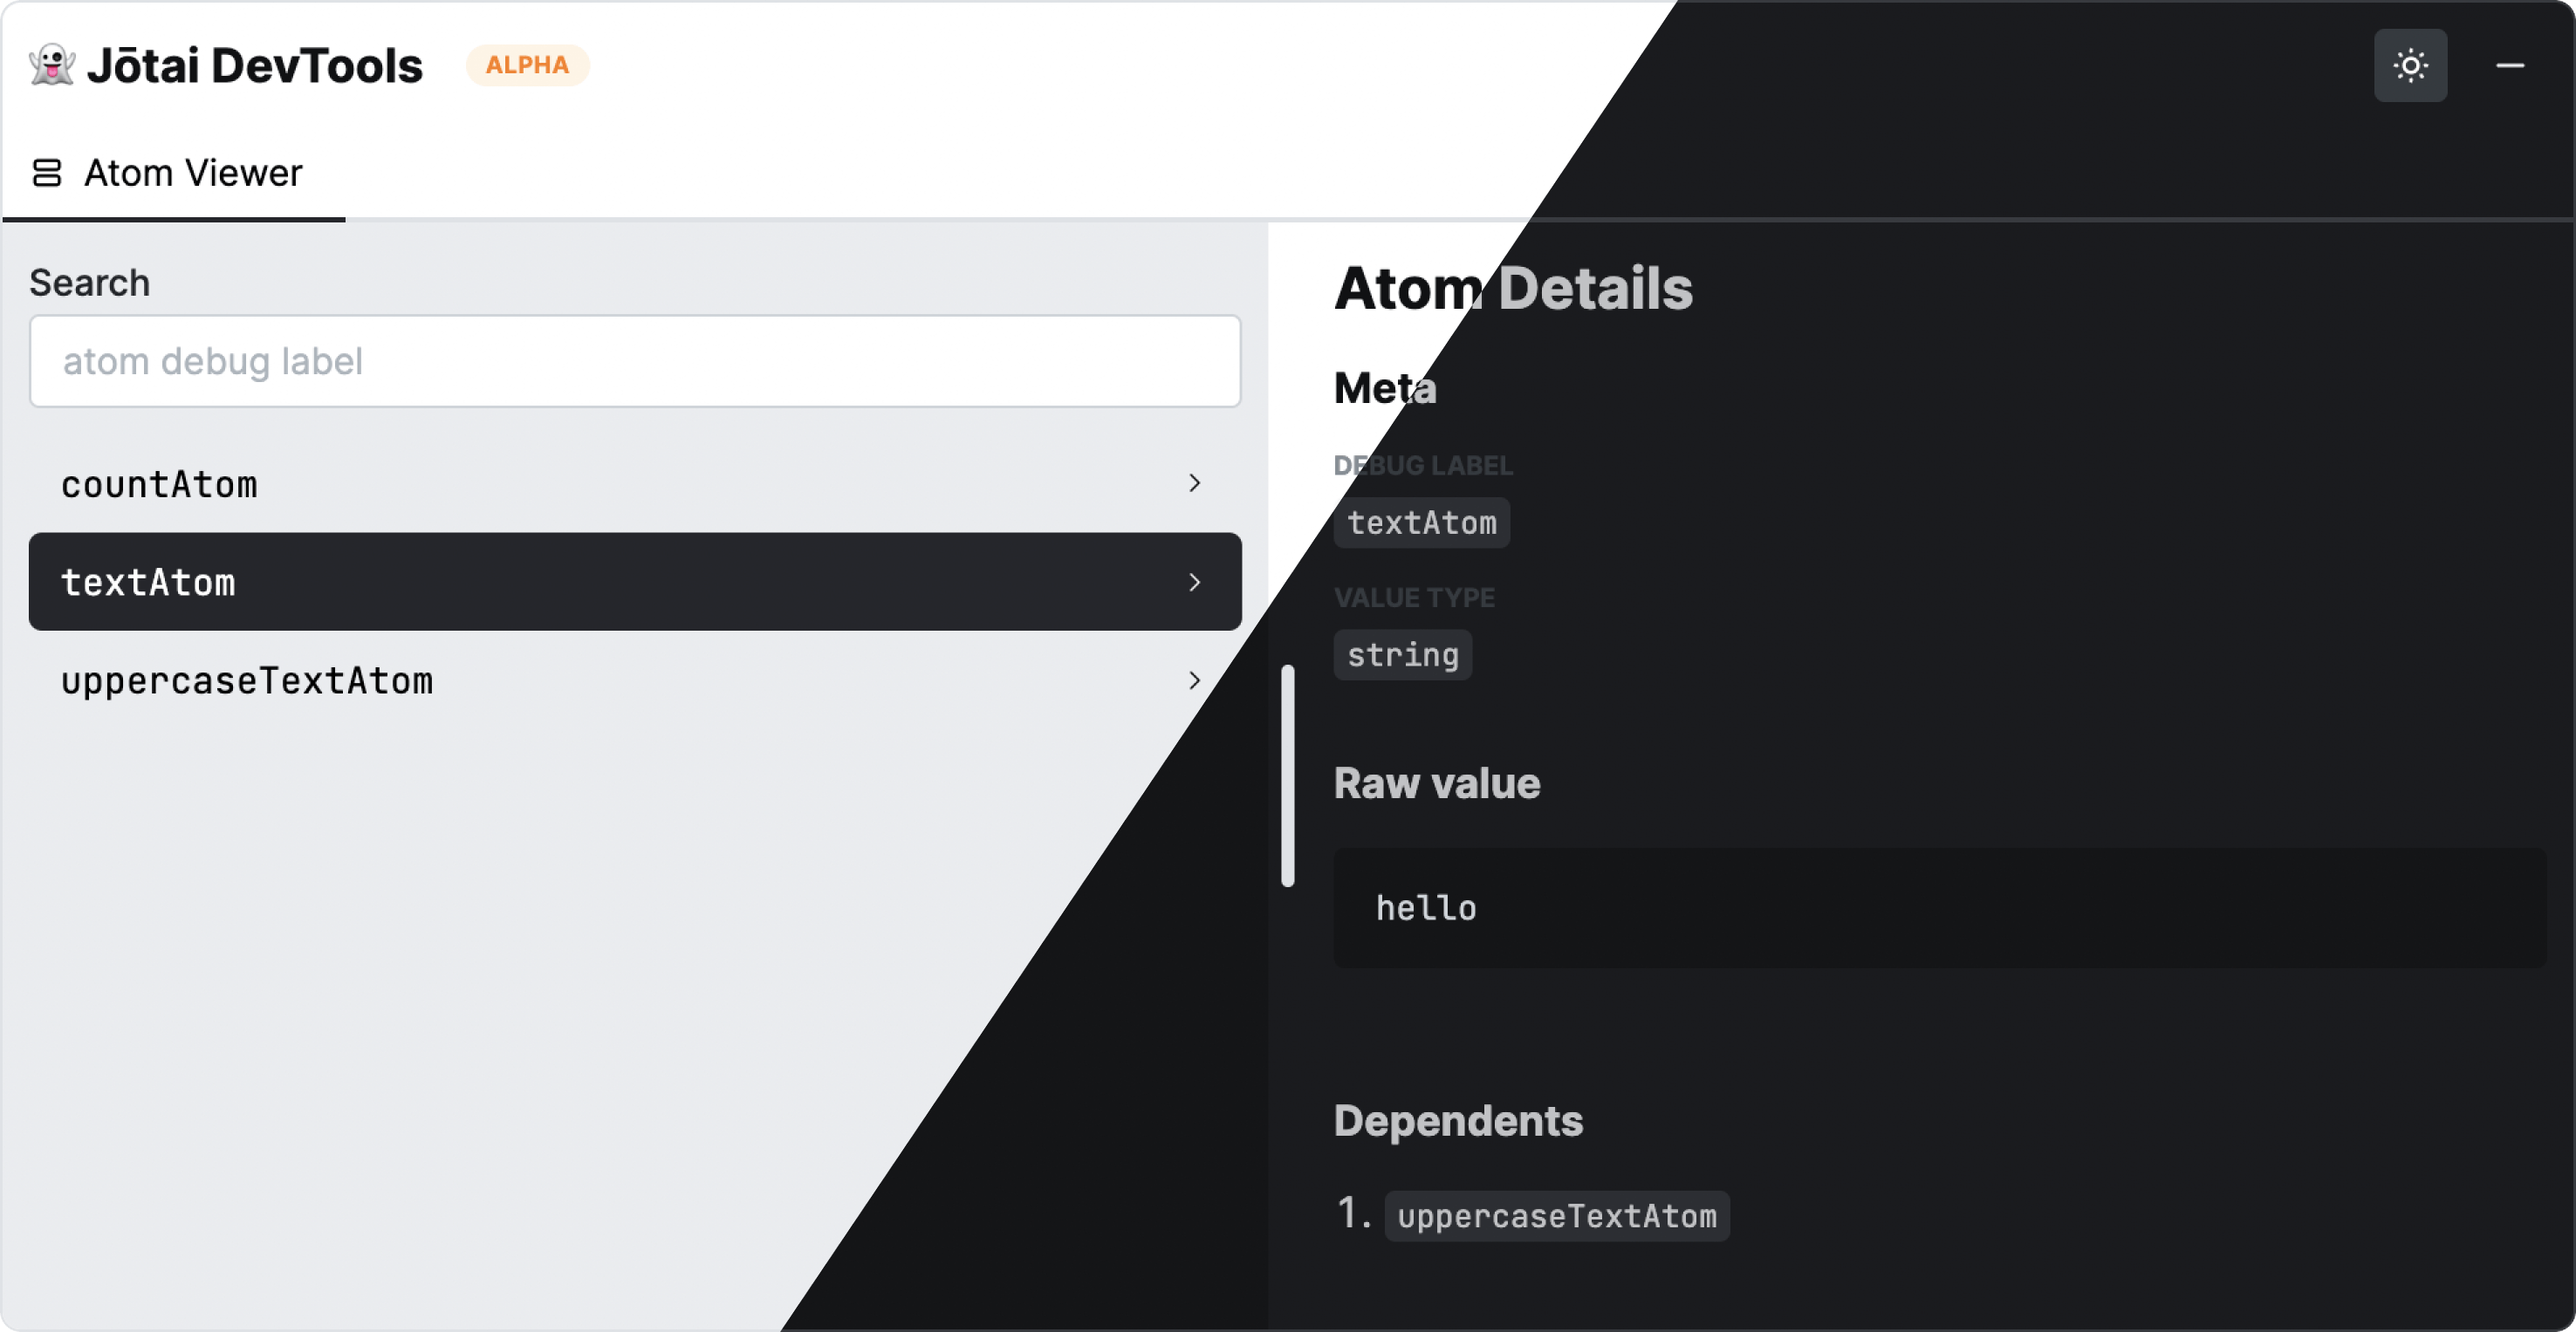
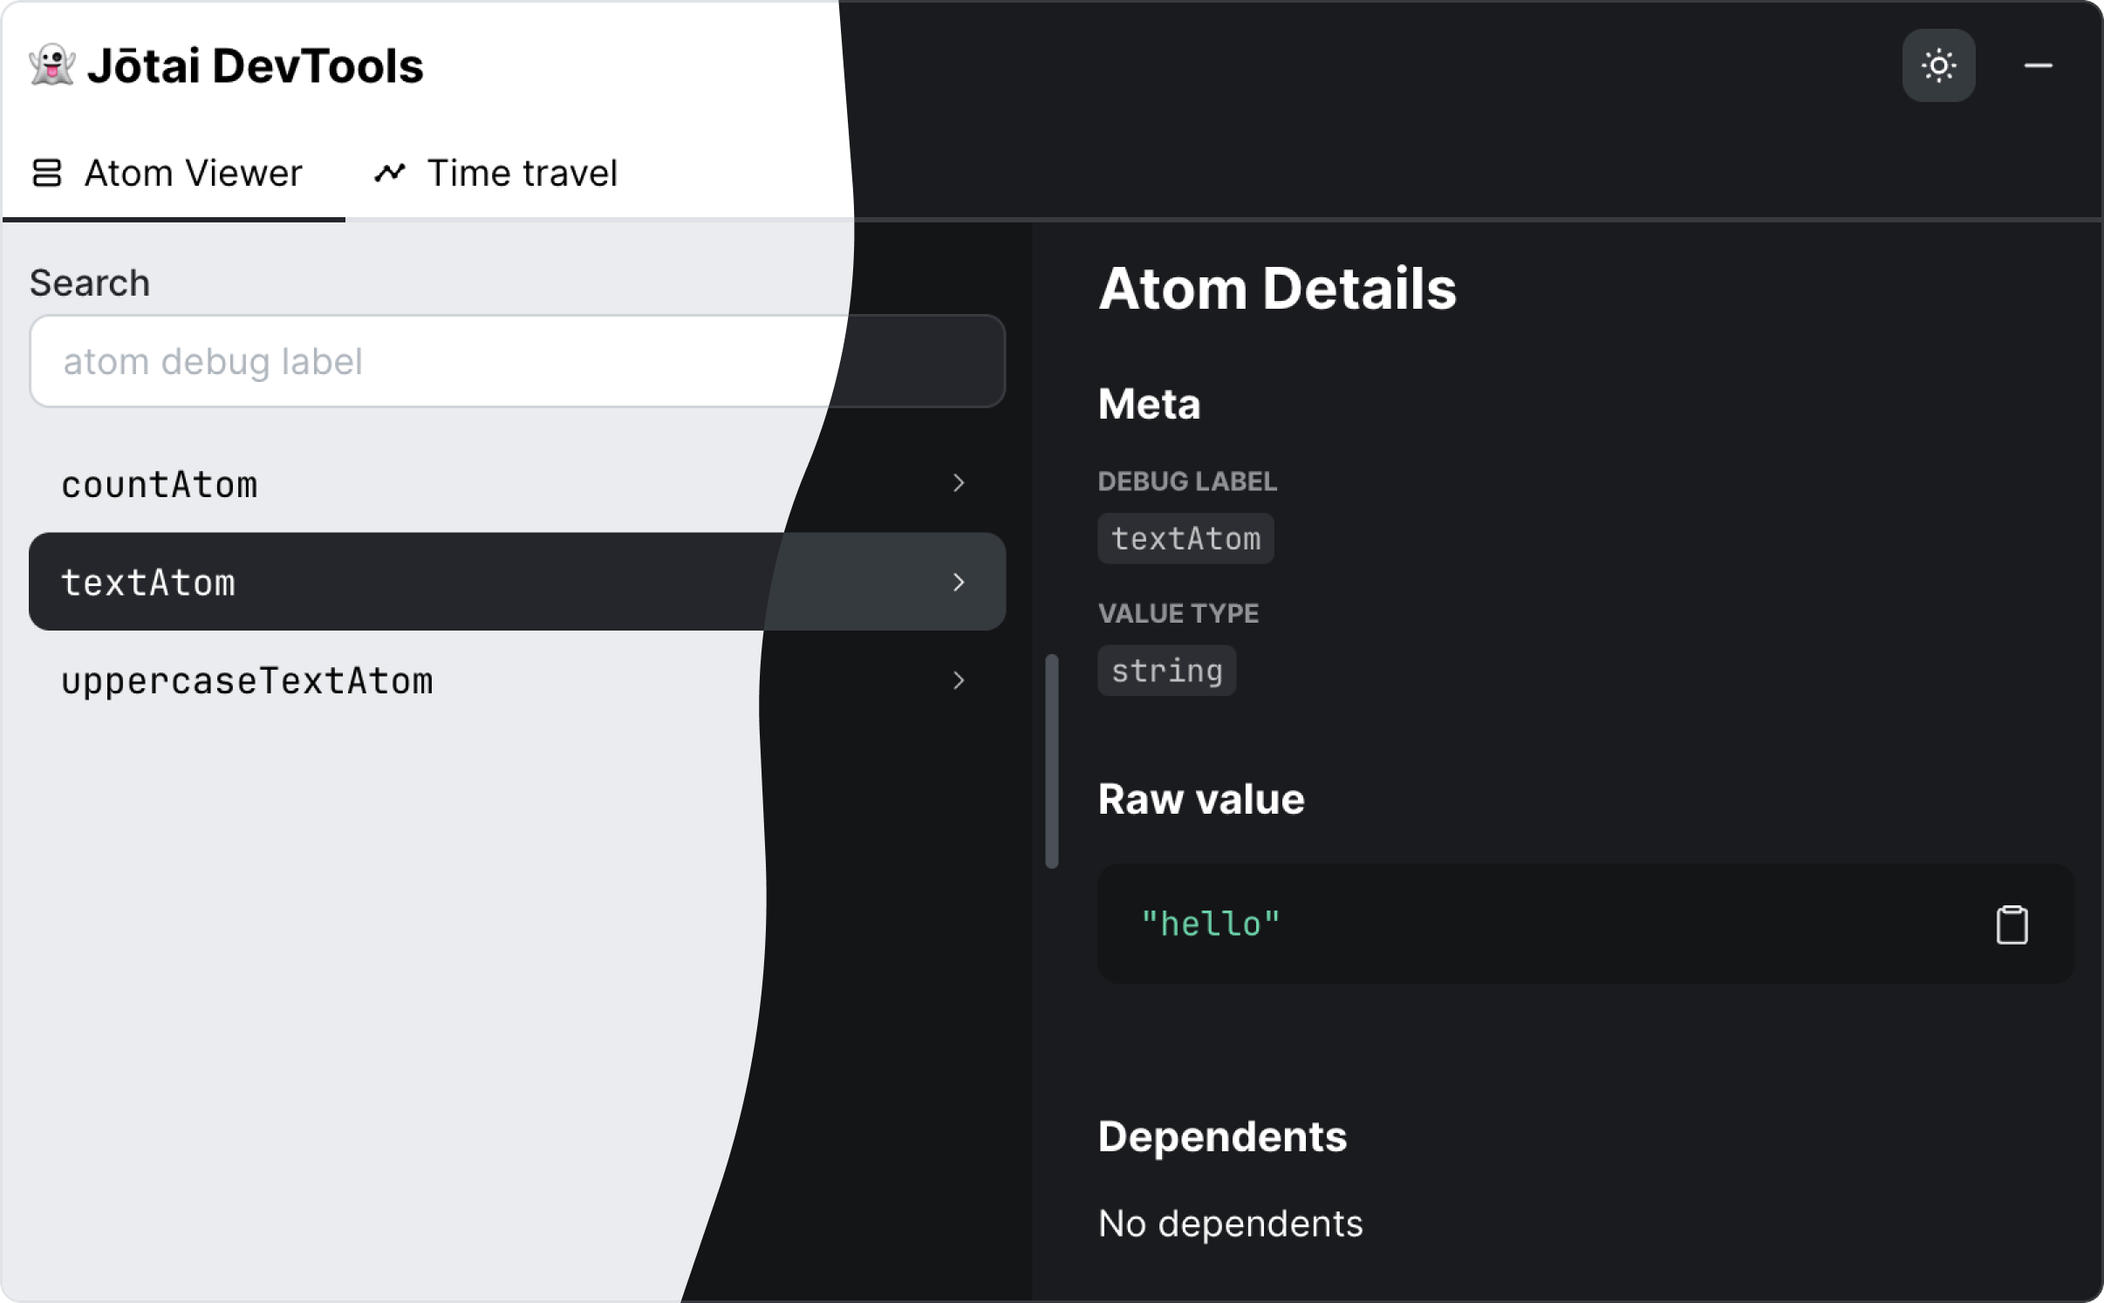
docs: update docs

diff --git a/src/DevTools/atoms/devtools-options.ts b/src/DevTools/atoms/devtools-options.ts
@@ -19,8 +19,7 @@ export type DevToolsOptions = {
   /**
    * Defaults to 750ms
    *
-   * Disables the snapshot recording on mount.
-   * This is useful when you want to record snapshots manually.
+   * The interval (in milliseconds) between each step of the time travel playback.
    */
   timeTravelPlaybackInterval?: number;
   /**

diff --git a/README.md b/README.md
@@ -2,10 +2,13 @@
 
 [![Build Status](https://img.shields.io/github/actions/workflow/status/jotaijs/jotai-devtools/ci.yml?style=flat&colorA=000000&colorB=259e02)](https://github.com/jotaijs/jotai-devtools/actions/workflows/ci.yml)
 [![Version](https://img.shields.io/npm/v/jotai-devtools?style=flat&colorA=000000&colorB=259e02)](https://www.npmjs.com/package/jotai-devtools)
+[![Version](https://img.shields.io/npm/dw/jotai-devtools?style=flat&colorA=000000&colorB=259e02)](https://www.npmjs.com/package/jotai-devtools)
 
 ## 🚀 Features
 
 - Debug 🐞 atom values with ease
+- ⏳ Time-travel through your atoms and find bugs faster than before
+  (recommended jotai `>=2.2.0`)
 - Out-of-the-box 🔌 support for async/suspendible atoms
 - Built-in Dark mode 🌗
 - ✅ Supports custom `store`
@@ -15,6 +18,7 @@
 - ✅ Hides private atoms with ability to configure (requires Jotai `>=2.0.3`)
 - ✅ Tree-shakable and built for non-production environments
 - ✅ Parses all the JavaScript values with JSON Tree view
+- ✅ Diff checking with additions and deletion highlights
 
 ## 📺 Preview
 
@@ -30,6 +34,8 @@
 - React version `>=17.0.0`
 
 ## 📦 Setup
+
+_(See complete setup guide for UI-based devtools below)_
 
 ```sh
 # yarn
@@ -102,9 +108,12 @@ type DevToolsProps = {
     // Expands the JSON tree view on initial render on Atom Viewer tab, Timeline tab, etc.
     // Defaults to `false`
     shouldExpandJsonTreeViewInitially?: boolean;
+    // The interval (in milliseconds) between each step of the time travel playback.
+    // Defaults to `750ms`
+    timeTravelPlaybackInterval?: number;
     // The maximum number of snapshots to keep in the history.
     // The higher the number the more memory it will consume.
-    // Defaults to Infinity. Recommended: ~30
+    // Defaults to `Infinity`. Recommended: `~30`
     snapshotHistoryLimit?: number;
   };
 };
